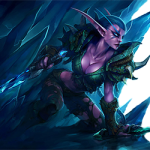
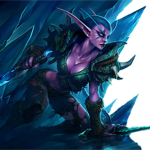
beautifull display home item

diff --git a/wp-content/themes/legion/class/item_home_promotion.php b/wp-content/themes/legion/class/item_home_promotion.php
@@ -15,11 +15,12 @@ class item_home_promotion extends item_home
         $return = "";
         $return .= '
         <a class="pinterest" onclick="showMoreItemHome(\'' . get_class($this) . '\')">
-            <li class="list-group-item col-sm-6 col-xs-12">
+            <li class="list-group-item col-sm-3 col-xs-12">
         <div class="display_item noPadding">
+        <div class="hidden-xs" style="width:100%;height:22px;"></div>
         ';
         $return .= wp_get_attachment_image($this->image, 'large', false, array("class" => "img-responsive center-block", "style" => "z-index:-1;width:100%;"));
-        $return .= '<p class="message hidden-xs" style="width: 50%;background-image: url(\'' . wp_get_attachment_image_src(132, "full")[0] . '\') ">
+        $return .= '<p class="message hidden-xs" style="top:50%;width: 80%;background-image: url(\'' . wp_get_attachment_image_src(132, "full")[0] . '\') ">
                     <span>' . $this->name . '</span>
                     </p>
                     <p class="hidden-sm hidden-md hidden-lg Quickstyle text-center">' . $this->name . '</p>';

diff --git a/wp-content/themes/legion/class/item_home_best_sell.php b/wp-content/themes/legion/class/item_home_best_sell.php
@@ -15,11 +15,11 @@ class item_home_best_sell extends item_home
         $return = "";
         $return .= '
         <a class="pinterest" onclick="showMoreItemHome(\'' . get_class($this) . '\')">
-            <li class="list-group-item col-sm-6 col-xs-12">
+            <li class="list-group-item col-sm-4 col-xs-12">
         <div class="display_item noPadding">
         ';
         $return .= wp_get_attachment_image($this->image, 'large', false, array("class" => "img-responsive center-block", "style" => "z-index:-1;width:100%;"));
-        $return .= '<p class="message hidden-xs" style="width: 50%;background-image: url(\'' . wp_get_attachment_image_src(132, "full")[0] . '\') ">
+        $return .= '<p class="message hidden-xs" style="width: 60%;background-image: url(\'' . wp_get_attachment_image_src(132, "full")[0] . '\') ">
                     <span>' . $this->name . '</span>
                     </p>
                     <p class="hidden-sm hidden-md hidden-lg Quickstyle text-center">' . $this->name . '</p>';

diff --git a/wp-content/themes/legion/class/item_home_profession.php b/wp-content/themes/legion/class/item_home_profession.php
@@ -18,8 +18,8 @@ class item_home_profession extends item_home
             <li class="list-group-item col-xs-12">
         <div class="display_item noPadding">
         ';
-        $return .= wp_get_attachment_image($this->image, 'large', false, array("class" => "img-responsive center-block", "style" => "z-index:-1;width:100%;"));
-        $return .= '<p class="message hidden-xs" style="left: 45%;width: 50%;background-image: url(\'' . wp_get_attachment_image_src(132, "full")[0] . '\') ">
+        $return .= wp_get_attachment_image($this->image, 'large', false, array("class" => "img-responsive center-block", "style" => "z-index:-1;width:50%;margin-left:0px"));
+        $return .= '<p class="message hidden-xs" style="top:20%;left: 45%;width: 50%;background-image: url(\'' . wp_get_attachment_image_src(132, "full")[0] . '\') ">
                     <span>' . $this->name . '</span>
                     </p>
                     <p class="hidden-sm hidden-md hidden-lg Quickstyle text-center">' . $this->name . '</p>';

diff --git a/wp-content/themes/legion/class/item_home_level.php b/wp-content/themes/legion/class/item_home_level.php
@@ -15,11 +15,11 @@ class item_home_level extends item_home
         $return = "";
         $return .= '
         <a class="pinterest" onclick="showMoreItemHome(\'' . get_class($this) . '\')">
-            <li class="list-group-item col-sm-6 col-xs-12">
+            <li class="list-group-item col-sm-4 col-xs-12">
         <div class="display_item noPadding">
         ';
         $return .= wp_get_attachment_image($this->image, 'large', false, array("class" => "img-responsive center-block", "style" => "z-index:-1;width:100%;"));
-        $return .= '<p class="message hidden-xs" style="width: 50%;background-image: url(\'' . wp_get_attachment_image_src(132, "full")[0] . '\') ">
+        $return .= '<p class="message hidden-xs" style="width: 60%;background-image: url(\'' . wp_get_attachment_image_src(132, "full")[0] . '\') ">
                     <span>' . $this->name . '</span>
                     </p>
                     <p class="hidden-sm hidden-md hidden-lg Quickstyle text-center">' . $this->name . '</p>';

diff --git a/wp-content/themes/legion/class/item_home_character.php b/wp-content/themes/legion/class/item_home_character.php
@@ -15,10 +15,10 @@ class item_home_character extends item_home
         $return = "";
         $return .= '
         <a class="pinterest" onclick="showMoreItemHome(\'' . get_class($this) . '\')">
-            <li class="list-group-item col-xs-12">
+            <li class="list-group-item col-sm-9 col-xs-12">
         <div class="display_item noPadding">
         ';
-        $return .= wp_get_attachment_image($this->image, 'large', false, array("class" => "img-responsive center-block", "style" => "z-index:-1;width:100%;"));
+        $return .= wp_get_attachment_image($this->image, 'large', false, array("class" => "img-responsive center-block", "style" => "z-index:-1;width:60%;margin-left: 0;"));
         $return .= '<p class="message hidden-xs" style="left: 300px;top: 60px;width: 50%;background-image: url(\'' . wp_get_attachment_image_src(132, "full")[0] . '\') ">
                     <span>' . $this->name . '</span>
                     </p>

diff --git a/wp-content/themes/legion/class/item_home_guild.php b/wp-content/themes/legion/class/item_home_guild.php
@@ -15,10 +15,10 @@ class item_home_guild extends item_home
         $return = "";
         $return .= '
         <a class="pinterest" onclick="showMoreItemHome(\'' . get_class($this) . '\')">
-            <li class="list-group-item col-sm-6 col-xs-12">
+            <li class="list-group-item col-xs-12">
         <div class="display_item noPadding">
         ';
-        $return .= wp_get_attachment_image($this->image, 'large', false, array("class" => "img-responsive center-block", "style" => "z-index:-1;width:100%;"));
+        $return .= wp_get_attachment_image($this->image, 'large', false, array("class" => "img-responsive center-block", "style" => "z-index:-1;width:90%;"));
         $return .= '<p class="message hidden-xs" style="width: 50%;background-image: url(\'' . wp_get_attachment_image_src(132, "full")[0] . '\') ">
                     <span>' . $this->name . '</span>
                     </p>

diff --git a/wp-content/themes/legion/class/item_home_membership.php b/wp-content/themes/legion/class/item_home_membership.php
@@ -19,7 +19,7 @@ class item_home_membership extends item_home
         <div class="display_item noPadding">
         ';
         $return .= wp_get_attachment_image($this->image, 'large', false, array("class" => "img-responsive center-block", "style" => "z-index:-1;width:100%;"));
-        $return .= '<p class="message hidden-xs" style="width: 50%;background-image: url(\'' . wp_get_attachment_image_src(132, "full")[0] . '\') ">
+        $return .= '<p class="message hidden-xs" style="top:50%;width: 50%;background-image: url(\'' . wp_get_attachment_image_src(132, "full")[0] . '\') ">
                     <span>' . $this->name . '</span>
                     </p>
                     <p class="hidden-sm hidden-md hidden-lg Quickstyle text-center">' . $this->name . '</p>';

diff --git a/wp-content/themes/legion/class/item_home_manage_character.php b/wp-content/themes/legion/class/item_home_manage_character.php
@@ -18,7 +18,7 @@ class item_home_manage_character extends item_home
             <li class="list-group-item col-sm-4 col-xs-12">
         <div class="display_item noPadding">
         ';
-        $return .= "<div class='heightMinPhone' style='width: 100%;height: 135px'></div>";
+        $return .= "<div class='heightMinPhone' style='width: 100%;height: 132px'></div>";
         $return .= wp_get_attachment_image($this->image, 'large', false, array("class" => "img-responsive center-block", "style" => "z-index:-1;height:100%;width:100%"));
         $return .= '<p class="message hidden-xs" style="top: 5%;width: 80%;background-image: url(\'' . wp_get_attachment_image_src(132, "full")[0] . '\') ">
                     <span>' . $this->name . '</span>

diff --git a/wp-content/themes/legion/class/item_home.php b/wp-content/themes/legion/class/item_home.php
@@ -39,11 +39,11 @@ class item_home extends parent_item
             array_push($allItems, $object);
         }
         foreach ($allItems as $itemHome) {
-            if ($itemHome->phpclasse == "item_home_character") {
+            if ($itemHome->phpclasse == "item_home_profession") {
                 $return .= "<div class='col-sm-8 col-xs-12 noPadding'>";
             }
             $return .= $itemHome->displayHome();
-            if ($itemHome->phpclasse == "item_home_profession") {
+            if ($itemHome->phpclasse == "item_home_guild") {
                 $return .= "</div>";
             }
         }

diff --git a/wp-content/themes/legion/class/item_home_gold.php b/wp-content/themes/legion/class/item_home_gold.php
@@ -15,7 +15,7 @@ class item_home_gold extends item_home
         $return = "";
         $return .= '
         <a class="pinterest" onclick="showMoreItemHome(\'' . get_class($this) . '\')">
-            <li class="list-group-item col-sm-6 col-xs-12">
+            <li class="list-group-item col-sm-4 col-xs-12">
         <div class="display_item noPadding">
         ';
         $return .= wp_get_attachment_image($this->image, 'large', false, array("class" => "img-responsive center-block", "style" => "z-index:-1;width:100%;"));
